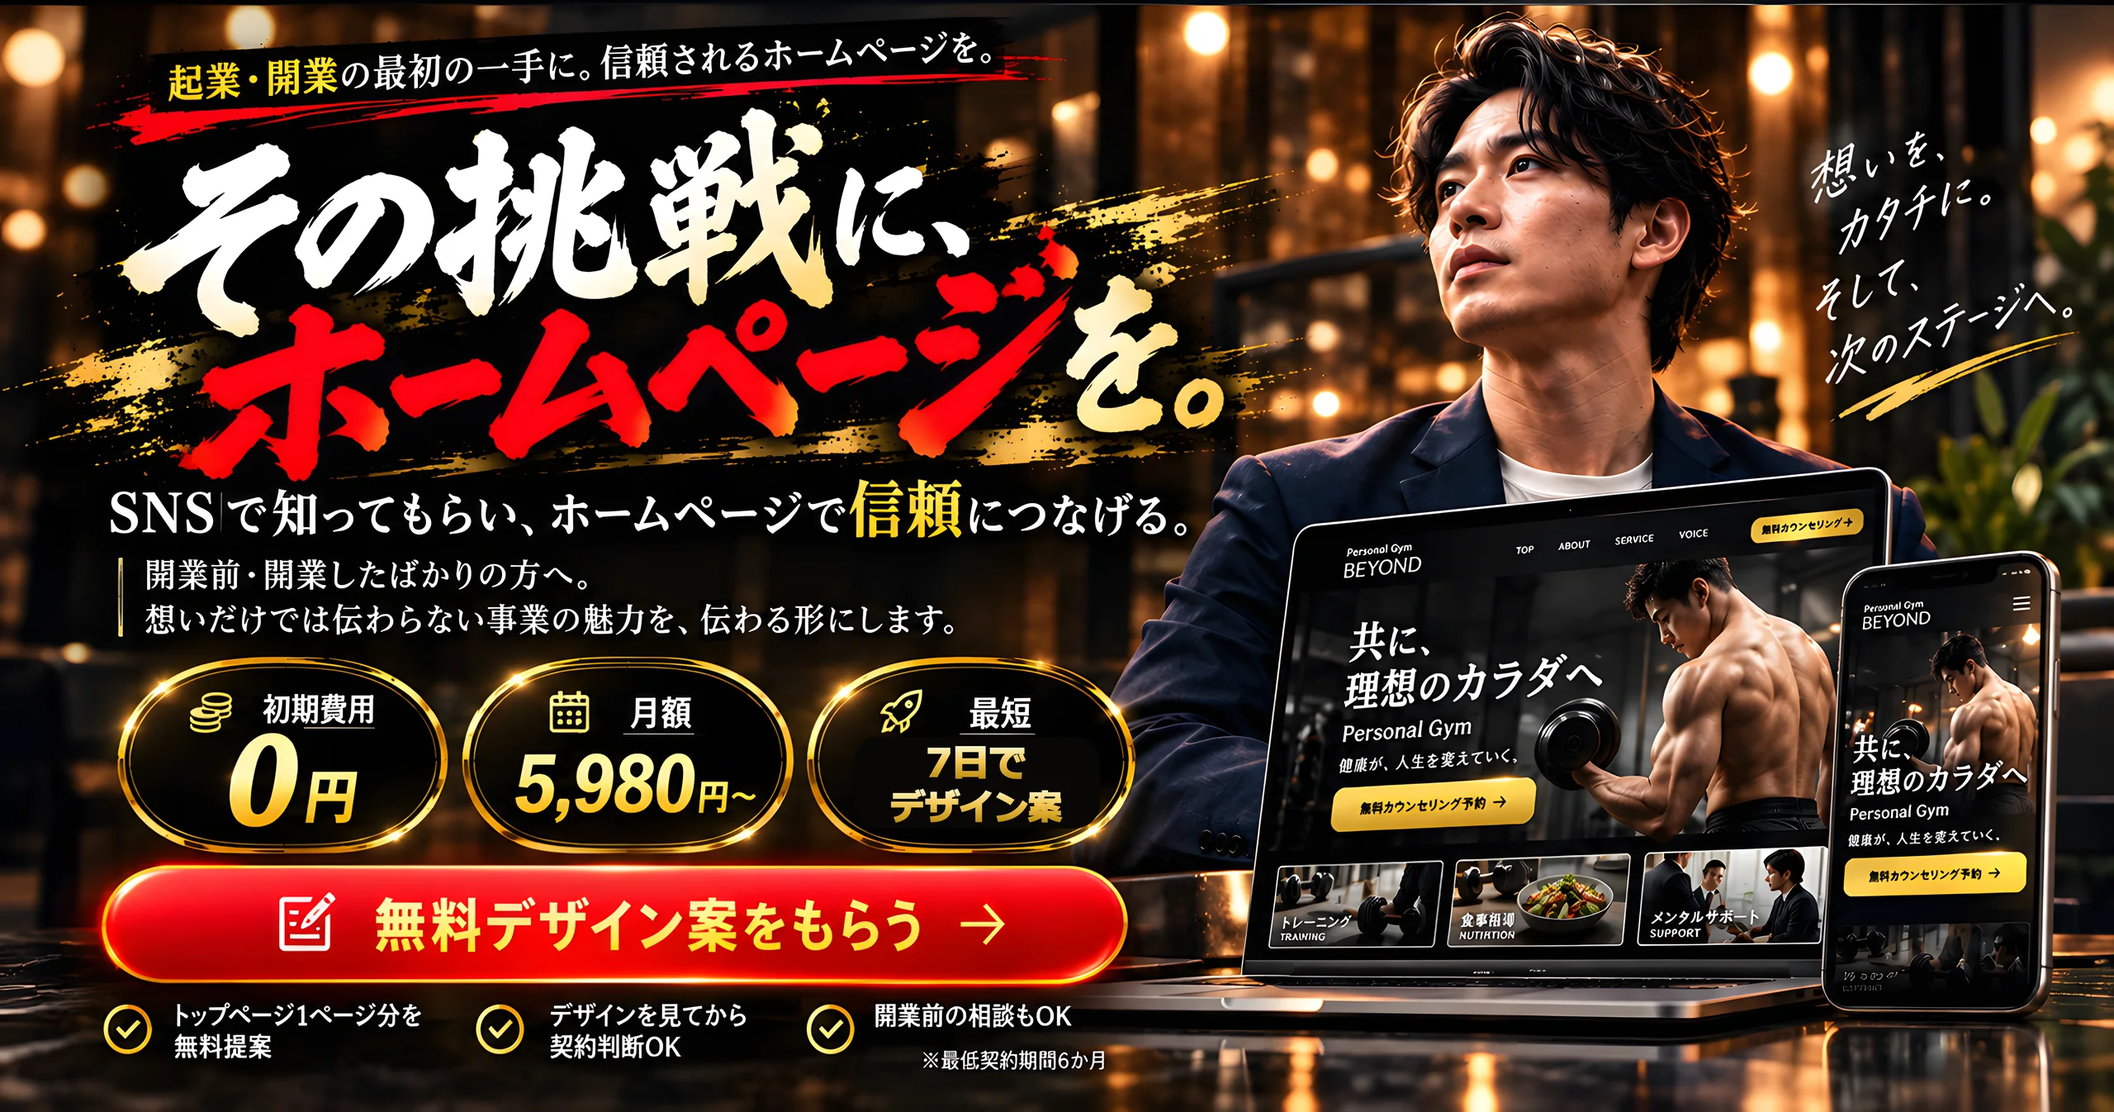
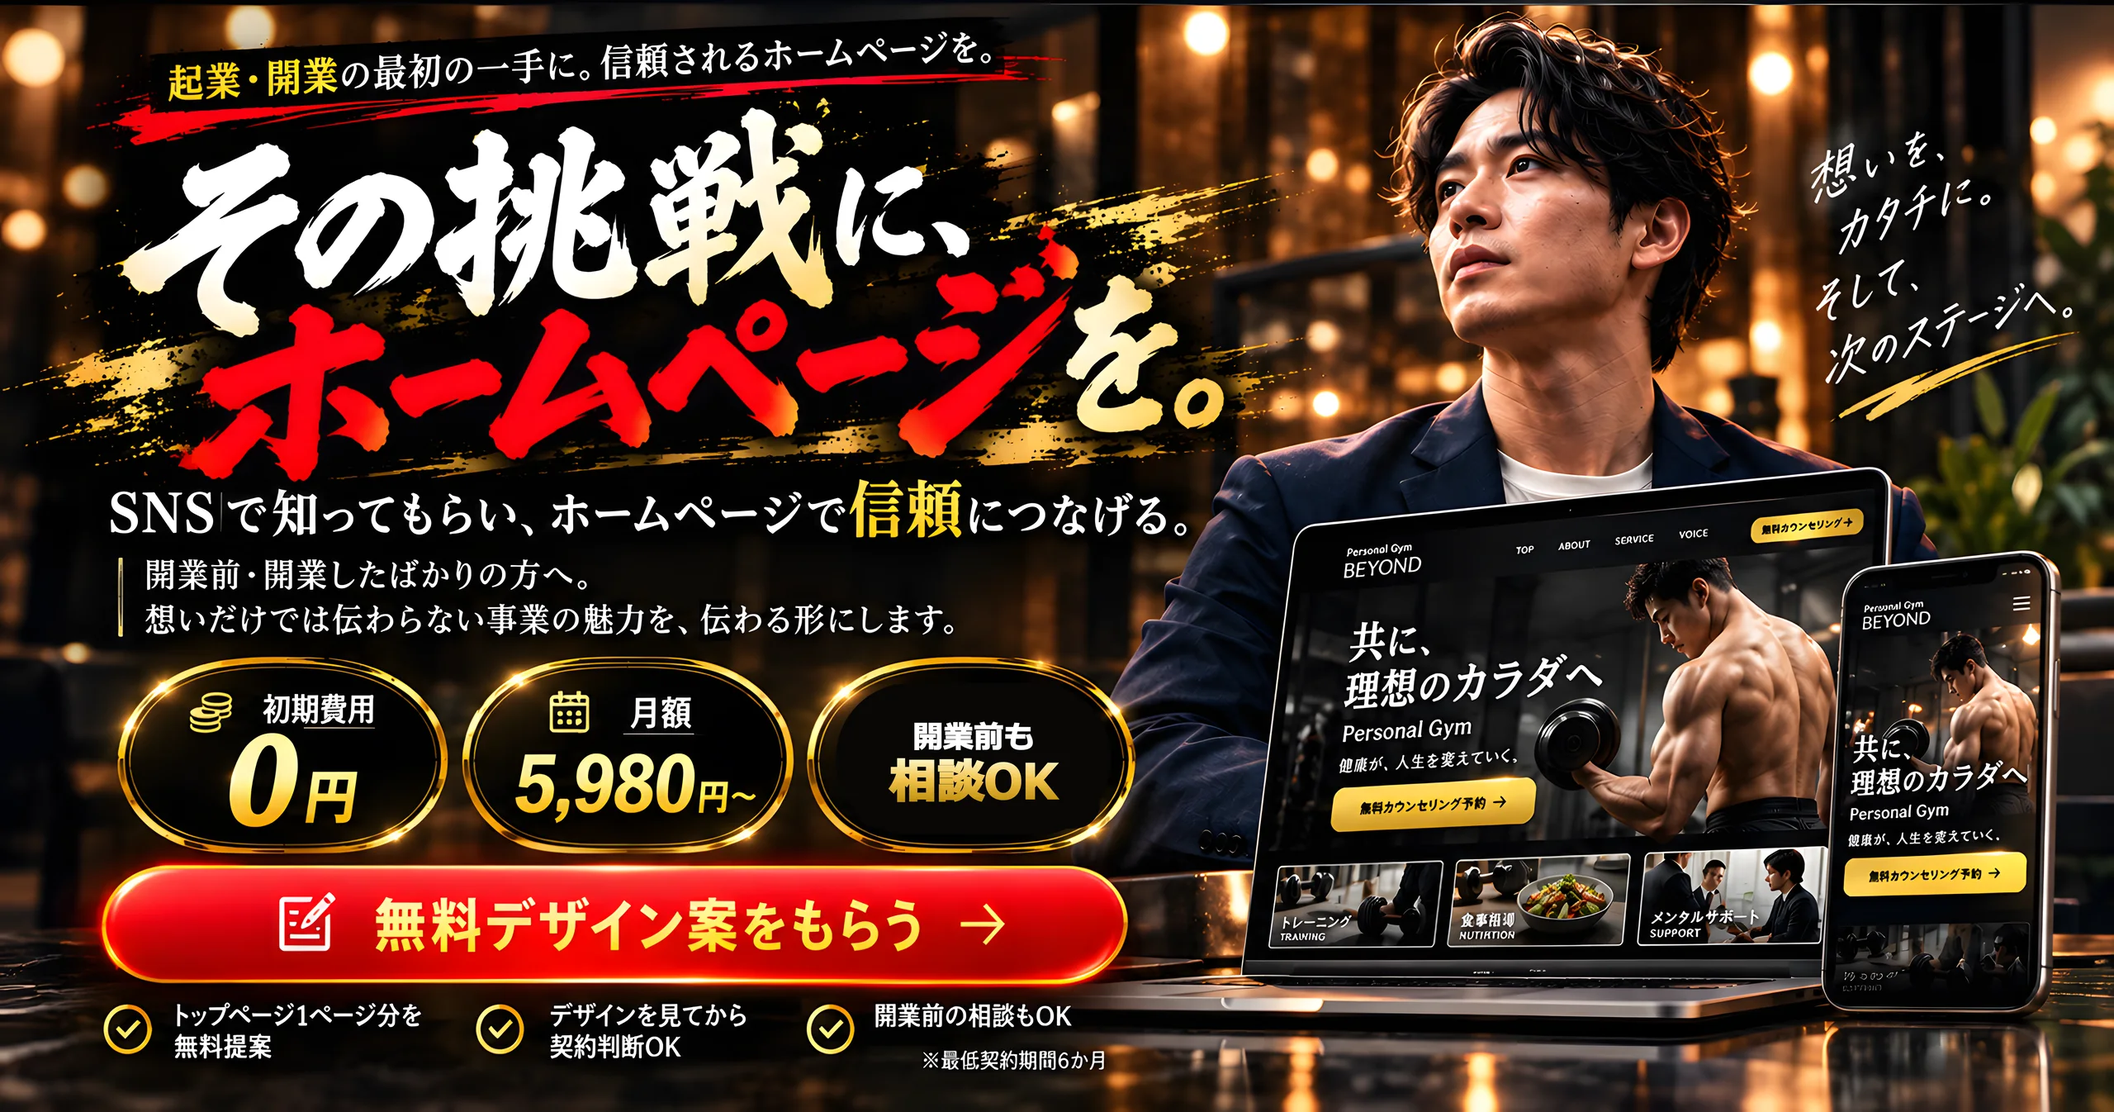
「安いから不安」→「大丈夫、無料でデザイン案を作ります」の流れを主軸に組み替え
- FV：無料デザイン案は出さず、月額5,980円〜とサービス内容を入口に。CTAは「まずは無料で相談する」
  （PC画像の3つ目のバッジを「開業前も相談OK」に描き替え、画像内のボタンと下の条件はHTMLで上書き）
- ヘッダー・固定CTAも「無料で相談する」に
- サンプル後の無料デザイン案CTA・2択を外し、「このクオリティで、月額5,980円〜。料金を見る↓」へ
- 料金の直後に反論→安心のセクションを新設：
  「でも……月額5,980円〜って、しょぼいホームページになるんじゃないの？」→「大丈夫です。」
  → 契約前にデザイン案を無料で → デザイン例 → 3つの理由 → 「無料でデザイン案を依頼する」＋資料は控えめなリンク
- ⑦は「無料デザイン案の流れ」に絞り、重複していた「この価格で…」を削除

Claude-Session: https://claude.ai/code/session_01G65TiHfa1BUco43NvNDLJF

Changed region(s): [[0.4062, 0.6241, 0.5, 0.7489]]

diff --git a/index.html b/index.html
@@ -527,6 +527,44 @@ footer a{color:#ddd}
 .doc-prev .thumbs img{width:100%; height:auto; border-radius:4px; border:1px solid var(--line2)}
 .doc-list{list-style:none; margin:0 0 14px; padding:0; display:grid; gap:4px; font-size:13.5px}
 .doc-list li::before{content:"✓ "; color:var(--gold); font-weight:900}
+
+/* FV（PC）のボタン・チェック上書き */
+.fv2-cta{display:none}
+.fv2-cta2{position:absolute; left:4.3%; top:77%; width:49%; height:12%; display:flex; align-items:center; justify-content:center; gap:1.2vw; text-decoration:none; color:#fff4c2; font-weight:900; font-size:min(2.35vw,39px); letter-spacing:.04em; background:linear-gradient(180deg,#ff3a40,#c10d13 55%,#8e070b); border:2px solid #ff8b8e; border-radius:999px; box-shadow:0 0 0 4px rgba(255,59,64,.18), 0 10px 30px rgba(215,20,26,.5)}
+.fv2-cta2 svg{width:1em; height:1em; stroke:currentColor; fill:none; stroke-width:2}
+.fv2-cta2:focus-visible{outline:3px solid var(--gold-lt); outline-offset:3px}
+.fv2-chk{position:absolute; left:3%; top:89.4%; width:54%; height:10.6%; margin:0; padding:0 1.4%; list-style:none; display:flex; align-items:center; justify-content:space-between; gap:1%; background:#070605; font-size:min(1.05vw,17.5px); font-weight:700; color:#fff}
+.fv2-chk li{display:flex; align-items:center; gap:.5vw; white-space:nowrap}
+.fv2-chk li::before{content:"✓"; display:inline-flex; width:1.6em; height:1.6em; border-radius:50%; border:2px solid var(--gold); color:var(--gold); align-items:center; justify-content:center; font-size:.85em}
+/* サンプル→料金 */
+.to-price{display:block; max-width:620px; margin:24px auto 0; text-align:center; text-decoration:none; font-family:var(--serif); font-weight:900; font-size:clamp(18px,4.6vw,24px); border:1px solid var(--line); border-radius:999px; padding:12px 16px}
+.to-price b{color:var(--gold-lt); font-family:var(--num); font-size:1.3em; margin:0 2px}
+.to-price span{display:block; font-family:"Noto Sans JP"; font-size:13px; color:var(--gold-lt)}
+/* 反論→安心 */
+.relief{background:radial-gradient(70% 50% at 50% 0%,rgba(215,20,26,.16),transparent 70%),radial-gradient(60% 40% at 50% 60%,rgba(227,180,58,.12),transparent 70%),var(--bg)}
+.rl-ask{position:relative; max-width:760px; margin:0 auto; display:grid; grid-template-columns:40% 1fr; align-items:center; gap:10px}
+.rl-ask img{width:100%; height:auto; border-radius:12px; -webkit-mask-image:linear-gradient(#000 75%,transparent); mask-image:linear-gradient(#000 75%,transparent)}
+.rl-bubble{position:relative; margin:0; background:#fff; color:#1b1712; border-radius:18px; padding:16px 18px; font-family:var(--serif); font-weight:900; font-size:clamp(16px,4.4vw,26px); line-height:1.5; box-shadow:0 10px 30px rgba(0,0,0,.5)}
+.rl-bubble b{color:#c4121a}
+.rl-bubble::before{content:""; position:absolute; left:-14px; top:50%; transform:translateY(-50%); border:14px solid transparent; border-left:0; border-right-color:#fff}
+.rl-ans{text-align:center; margin-top:26px}
+.rl-ok{margin:0; font-family:var(--serif); font-weight:900; font-size:clamp(40px,11vw,76px); line-height:1.1; background:linear-gradient(180deg,#fff3c4,#e9bd4a 55%,#b8860b); -webkit-background-clip:text; background-clip:text; color:transparent; text-shadow:0 0 40px rgba(227,180,58,.25)}
+.rl-ans h2{margin:12px 0 0; font-family:var(--serif); font-weight:900; font-size:clamp(20px,5.4vw,38px); line-height:1.45}
+.rl-lead{margin:14px auto 0; max-width:720px; font-size:clamp(14px,3.6vw,17px); font-weight:700}
+.rl-lead em{font-style:normal; color:var(--gold-lt)}
+.rl-show{margin-top:28px}
+.rl-show-h{margin:0 0 10px; text-align:center; font-weight:900; color:var(--gold-lt)}
+.rl-imgs{display:grid; grid-template-columns:repeat(3,1fr); gap:8px; max-width:1000px; margin:0 auto}
+.rl-imgs img{width:100%; height:auto; border-radius:8px; border:1px solid var(--line)}
+.rl-pts{list-style:none; margin:22px auto 0; padding:0; max-width:1000px; display:grid; gap:10px}
+@media (min-width:700px){ .rl-pts{grid-template-columns:repeat(3,1fr)} }
+.rl-pts li{border:1px solid var(--line); border-radius:12px; background:rgba(0,0,0,.5); padding:14px 16px; font-size:13px; color:#e8e2d5}
+.rl-pts b{display:block; font-family:var(--serif); font-weight:900; color:var(--gold-lt); font-size:17px}
+.rl-pts b::before{content:"✓ "; color:var(--gold)}
+.rl-cta{margin-top:30px; text-align:center}
+.rl-cta-h{margin:0 0 12px; font-family:var(--serif); font-weight:900; font-size:clamp(17px,4.4vw,24px)}
+.btn-red.big{max-width:720px; font-size:clamp(17px,4.6vw,30px); padding:18px 16px; white-space:nowrap}
+@media (max-width:699px){ .rl-ask{grid-template-columns:36% 1fr} .rl-bubble{padding:12px 14px} }
 </style>
 <script>
 // FVの高さ用：開いたときの見える高さを1回だけ測って固定（アドレスバーの出入りでFVが伸び縮みしないように）
@@ -546,7 +584,7 @@ footer a{color:#ddd}
     <nav class="gnav" aria-label="ページ内メニュー">
       <a href="#can">サービスの特徴</a><a href="#samples">制作サンプル</a><a href="#plans">料金プラン</a><a href="#flow">ご利用の流れ</a><a href="#faq">よくある質問</a>
     </nav>
-    <a class="cta" href="#contact">無料デザイン案をもらう →</a>
+    <a class="cta" href="#contact">無料で相談する →</a>
     <button class="menu-btn" type="button" aria-label="メニュー" aria-expanded="false" aria-controls="mnav"><i></i><i></i><i></i></button>
   </div>
   <nav class="mnav" id="mnav" aria-label="メニュー">
@@ -560,8 +598,9 @@ footer a{color:#ddd}
 <section class="fv2" aria-label="EasyWebCraft">
   <h1 class="sr">その挑戦に、ホームページを。起業・開業の最初の一手に、信頼されるホームページを。</h1>
   <div class="fv2-in fv2-pc">
-    <img src="img/v3/fv-pc.webp" alt="SNSで知ってもらい、ホームページで信頼につなげる。初期費用0円、月額5,980円〜、最短7日でデザイン案。トップページ1ページ分を無料提案、デザインを見てから契約判断OK、開業前の相談もOK。最低契約期間6ヶ月。" width="2560" height="1346" fetchpriority="high">
-    <a class="fv2-cta" href="#contact" aria-label="無料デザイン案をもらう"></a>
+    <img src="img/v3/fv-pc.webp" alt="SNSで知ってもらい、ホームページで信頼につなげる。開業前・開業したばかりの方へ。初期費用0円、月額5,980円〜、開業前も相談OK。" width="2560" height="1346" fetchpriority="high">
+    <a class="fv2-cta2" href="#contact"><svg viewBox="0 0 24 24" aria-hidden="true"><path d="M4 5h16v11H9l-5 4z"/></svg>まずは無料で相談する<span class="arr" aria-hidden="true">→</span></a>
+    <ul class="fv2-chk"><li>制作・更新・保守まで月額に込み</li><li>スマホ対応・SEOの基本設定</li><li>開業前・開業直後の相談OK</li></ul>
   </div>
   <div class="fv2-sp">
     <img src="img/v3/fv-sp-top.webp" alt="SNSで知ってもらい、ホームページで信頼につなげる。" width="1170" height="753" fetchpriority="high">
@@ -569,10 +608,10 @@ footer a{color:#ddd}
       <ul class="badges">
         <li><small>初期費用</small><b class="g">0<i>円</i></b></li>
         <li><small>月額</small><b class="s g">5,980<i>円〜</i></b></li>
-        <li><small>最短</small><b class="t g">7日で<br>デザイン案</b></li>
+        <li><small>開業前も</small><b class="t g">相談<br>OK</b></li>
       </ul>
-      <a class="btn-red" href="#contact"><svg viewBox="0 0 24 24" aria-hidden="true"><path d="M4 20h4l10-10-4-4L4 16z"/><path d="M13 7l4 4"/></svg>無料デザイン案をもらう<span class="arr" aria-hidden="true">→</span></a>
-      <p class="fv2-note">トップページ1ページ分を無料提案。デザインを見てから契約判断OK。</p>
+      <a class="btn-red" href="#contact"><svg viewBox="0 0 24 24" aria-hidden="true"><path d="M4 5h16v11H9l-5 4z"/></svg>まずは無料で相談する<span class="arr" aria-hidden="true">→</span></a>
+      <p class="fv2-note">制作・更新・保守まで月額に込み。開業前の相談もOK。</p>
       <p class="fine">※税別（税込6,578円〜）・最低契約期間6ヶ月</p>
     </div>
   </div>
@@ -584,7 +623,7 @@ footer a{color:#ddd}
     <div class="sec-h">
       <h2><span>制作デザイン<span class="g">サンプル</span></span></h2>
       <p>あなたの<em>業種に合わせたデザイン例</em>をご提案</p>
-      <small>どんなホームページが作れるのか、具体的なイメージを先に確認できます。※以下はデザイン例です</small>
+      <small>どんなホームページが作れるのか、具体的なイメージをご覧ください。※以下はデザイン例です</small>
     </div>
     <div class="cards3">
       <article class="scard"><div class="ph"><img src="img/v3/s-izakaya.webp" alt="飲食店のデザイン例（PCとスマホ）" width="1100" height="806" loading="lazy"></div>
@@ -594,18 +633,8 @@ footer a{color:#ddd}
       <article class="scard"><div class="ph"><img src="img/v3/s-gym.webp" alt="パーソナルジムのデザイン例（PCとスマホ）" width="1100" height="803" loading="lazy"></div>
         <div class="cap"><span class="ic"><svg viewBox="0 0 24 24"><path d="M3 9v6M6 7v10M18 7v10M21 9v6M6 12h12"/></svg></span><div><h3>パーソナルジム</h3><p>強みと信頼感をわかりやすく訴求</p><ul class="sb"><li>トレーニングの魅力が伝わる、ダイナミックなビジュアル</li><li>サービス内容・料金・トレーナー紹介をわかりやすく掲載</li><li>問い合わせ・体験予約につながる導線設計</li></ul></p></div></div></article>
     </div>
-    <div class="cta-block">
-      <a class="btn-red" href="#contact"><svg viewBox="0 0 24 24" aria-hidden="true"><path d="M4 20h4l10-10-4-4L4 16z"/><path d="M13 7l4 4"/></svg>無料デザイン案をもらう<span class="arr" aria-hidden="true">→</span></a>
-      <ul class="checks"><li>トップページ1ページ分を無料提案</li><li>デザインを見てから契約判断OK</li><li>開業前の相談もOK</li></ul>
-    </div>
     <p class="note">※掲載しているのはサンプルデザインです。実際の制作実績・お客様の声は、公開の許可をいただけしだい掲載します。</p>
-    <div class="choose2">
-      <p class="c2-h">あなたに合った方法で、まずは一歩。</p>
-      <div class="c2-grid">
-        <a class="c2 main" href="#contact"><b>あなたの事業のデザイン案を無料で</b><span>実際の仕上がりを見てから、契約するか判断できます。</span><em>無料デザイン案を申し込む →</em></a>
-        <a class="c2 sub" href="#doc"><b>料金・デザイン例をまとめて確認</b><span>サービス内容が分かる6ページのPDF資料をお届けします。</span><em>無料資料をダウンロード →</em></a>
-      </div>
-    </div>
+    <a class="to-price" href="#plans">このクオリティで、月額<b>5,980</b>円〜。<span>料金を見る ↓</span></a>
   </div>
 </section>
 
@@ -694,8 +723,37 @@ footer a{color:#ddd}
       </table>
     </div>
     <p class="plan-msg">プランに迷う場合も、事業内容に合わせて<em>最適な構成</em>をご提案します。</p>
-    <div class="cta-block"><a class="btn-red" href="#contact"><svg viewBox="0 0 24 24" aria-hidden="true"><path d="M4 20h4l10-10-4-4L4 16z"/><path d="M13 7l4 4"/></svg>無料デザイン案をもらう<span class="arr" aria-hidden="true">→</span></a><a class="sub-cta" href="#doc">まだ検討中の方は、まずは資料を見る（無料）→</a></div>
     <p class="fine">※表示価格は税別です。詳しい条件は<a href="https://easywebcraft.github.io/easyweb-lp/tokushoho.html">特定商取引法に基づく表記</a>をご覧ください。</p>
+  </div>
+</section>
+
+<!-- ⑥-2 「安いから、しょぼいのでは？」→「大丈夫。無料でデザイン案を作ります」 -->
+<section id="relief" class="relief">
+  <div class="wrap">
+    <div class="rl-ask">
+      <img src="img/v3/q-man.webp" alt="" width="1100" height="1350" loading="lazy">
+      <p class="rl-bubble">でも……<br>月額5,980円〜って、<br><b>しょぼいホームページ</b>に<br>なるんじゃないの？</p>
+    </div>
+    <div class="rl-ans">
+      <p class="rl-ok">大丈夫です。</p>
+      <h2>ご契約の前に、あなたの事業の<br><span class="g">デザイン案を無料で</span>お作りします。</h2>
+      <p class="rl-lead">仕上がりを<em>自分の目で確かめてから</em>、頼むかどうか決められます。<br>「安いから、この程度か…」と思ったら、見送っていただいてかまいません。</p>
+    </div>
+    <div class="rl-show">
+      <p class="rl-show-h">例えば、こんなデザイン案を無料で</p>
+      <div class="rl-imgs"><img src="img/v3/s-izakaya.webp" alt="飲食店のデザイン案の例" width="1100" height="806" loading="lazy"><img src="img/v3/s-salon.webp" alt="美容室のデザイン案の例" width="1100" height="815" loading="lazy"><img src="img/v3/s-gym.webp" alt="パーソナルジムのデザイン案の例" width="1100" height="803" loading="lazy"></div>
+    </div>
+    <ul class="rl-pts">
+      <li><b>テンプレートではなく、1からデザイン</b>業種・事業内容に合わせたオリジナル</li>
+      <li><b>PC・スマホ両方のイメージを確認</b>トップページ1ページ分をご提案</li>
+      <li><b>見送っても費用は0円</b>相談・ヒアリング・デザイン案まで無料</li>
+    </ul>
+    <div class="rl-cta">
+      <p class="rl-cta-h">まずは、あなたの事業で試してみてください。</p>
+      <a class="btn-red big" href="#contact"><svg viewBox="0 0 24 24" aria-hidden="true"><path d="M4 20h4l10-10-4-4L4 16z"/><path d="M13 7l4 4"/></svg>無料でデザイン案を依頼する<span class="arr" aria-hidden="true">→</span></a>
+      <p class="fine">最短7日でご提案／しつこい営業はいたしません／1営業日以内にご返信</p>
+      <a class="sub-cta" href="#doc">まだ迷っている方は、まず無料の資料で確認する →</a>
+    </div>
   </div>
 </section>
 
@@ -703,12 +761,7 @@ footer a{color:#ddd}
 <section id="flow">
   <div class="wrap">
     <div class="sec-h">
-      <h2><span><span class="g">無料デザイン案</span>のメリットと流れ</span></h2>
-    </div>
-    <div class="merit">
-      <p class="m-q">この価格で、どんなホームページができるの？</p>
-      <p class="m-a">ご契約前に、あなたの事業に合わせたトップページのデザイン案を無料で制作します。<br>仕上がりのイメージを確認してから、ご判断いただけます。</p>
-      <ul class="m-list"><li>業種・事業内容に合わせたオリジナルデザイン</li><li>PC・スマホ両方のデザインイメージ</li><li>見送った場合も費用0円</li></ul>
+      <h2><span><span class="g">無料デザイン案</span>の流れ</span></h2>
     </div>
     <p class="flow-sub">お申し込みからご提案までの流れ</p>
     <p class="tops"><span>最短<b>7日</b>でデザイン案をご提案</span><span>開業前・準備中の方もご相談OK</span></p>
@@ -725,7 +778,7 @@ footer a{color:#ddd}
       <div class="point"><span class="ic"><svg viewBox="0 0 24 24"><path d="M3 12l4-4 4 3 3-3 4 4-5 5-3-2-3 2z"/><path d="M7 8L3 6M17 8l4-2"/></svg></span><div><b>デザイン確認後に契約判断OK</b><span>気に入ってからのご契約で安心です。</span></div></div>
       <div class="point"><span class="ic"><svg viewBox="0 0 24 24"><path d="M4 5h11v8H8l-4 3z"/><path d="M15 9h5v8l-3-2h-6v-2"/></svg></span><div><b>ご不明点はメール・チャットで相談可能</b><span>些細なことでもお気軽にご相談ください。</span></div></div>
     </div>
-    <div class="cta-block"><a class="btn-red" href="#contact"><svg viewBox="0 0 24 24" aria-hidden="true"><path d="M4 20h4l10-10-4-4L4 16z"/><path d="M13 7l4 4"/></svg>無料デザイン案をもらう<span class="arr" aria-hidden="true">→</span></a></div>
+    <div class="cta-block"><a class="btn-red" href="#contact"><svg viewBox="0 0 24 24" aria-hidden="true"><path d="M4 20h4l10-10-4-4L4 16z"/><path d="M13 7l4 4"/></svg>無料でデザイン案を依頼する<span class="arr" aria-hidden="true">→</span></a></div>
     <p class="fine">※「最短7日」は無料デザイン案をご提案するまでの目安です。ご契約後、ホームページ公開までの日数はページ数や内容によって異なるため、ご相談時にご案内します。<br>※ご提案内容はヒアリング内容に応じて異なります。※混雑状況により日数が前後する場合があります。</p>
     <div class="after">
       <p class="after-h">ご契約後の流れ</p>
@@ -833,7 +886,7 @@ footer a{color:#ddd}
 
 </main>
 
-<a class="sticky-cta" href="#contact" hidden>無料デザイン案をもらう →</a>
+<a class="sticky-cta" href="#contact" hidden>まずは無料で相談する →</a>
 
 <footer>
   <img src="img/logo-full.webp" alt="EasyWebCraft Web Design &amp; Development" width="800" height="124" loading="lazy">
@@ -860,7 +913,7 @@ footer a{color:#ddd}
     es.forEach(function (e) { e.isIntersecting ? seen.add(e.target) : seen.delete(e.target); });
     bar.classList.toggle('off', seen.size > 0);
   }, { threshold: 0.01 });
-  [document.querySelector('.fv2'), document.getElementById('contact'), document.getElementById('doc')].forEach(function (el) { if (el) io.observe(el); });
+  [document.querySelector('.fv2'), document.getElementById('contact'), document.getElementById('doc'), document.querySelector('.rl-cta')].forEach(function (el) { if (el) io.observe(el); });
 })();
 
 // 資料ダウンロード：送信できたらPDFのボタンを出して、新しいタブで開く
